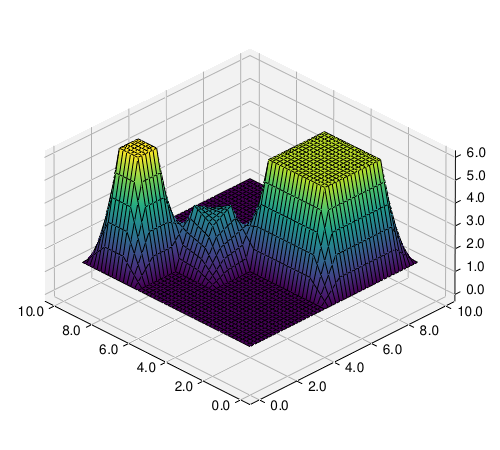
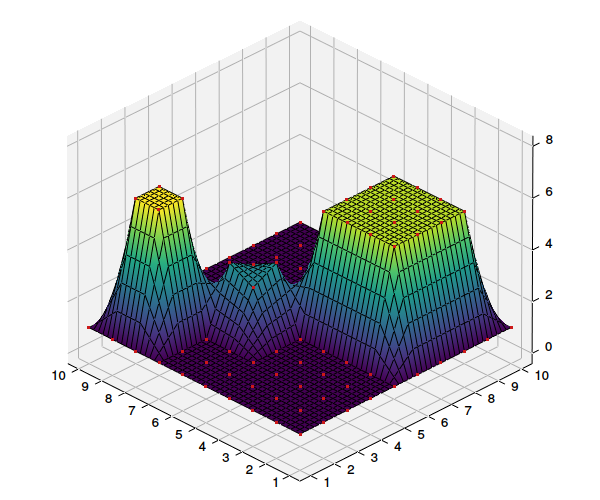
docs: Export zoomed example figures

diff --git a/cubinterpp/periodic_spline.py b/cubinterpp/periodic_spline.py
@@ -1,5 +1,6 @@
 """ Simple test for Periodic Spline Interpolation """
 
+from pathlib import Path
 import numpy as np
 import mlpyqtgraph as mpg
 import cubinterpp.cubinterpp_py as cubinterpp  # cubinterpp_py is a pybind11 module
@@ -25,7 +26,6 @@ def test_data(case='circle'):
 
 @mpg.plotter
 def main():
-
     t, x, y = test_data('arbitrary')
 
     spline_x = cubinterpp.NaturalPeriodicSpline1D(t, x)
@@ -42,7 +42,8 @@ def main():
     mpg.plot(x_interp_scipy, y_interp_scipy, style='--')
     mpg.plot(x, y, width=0, symbol='o', symbol_color='r', symbol_size=6)
     mpg.legend('cubinterpp', 'scipy', 'data points')
-    mpg.gca().grid = True
+    ax = mpg.gca()
+    ax.grid = True
 
 
 if __name__ == '__main__':

diff --git a/cubinterpp/main.py b/cubinterpp/main.py
@@ -1,5 +1,6 @@
 """ Compare Spline Interpolation types """
 
+from pathlib import Path
 import numpy as np
 from scipy.interpolate import RegularGridInterpolator
 import mlpyqtgraph as mpg
@@ -152,6 +153,9 @@ def main():
         ax.yticks = 8
         ax.zlim = [0, 8]
         mpg.points3(xp, yp, zp, color=(0.8, 0.1, 0.1, 1), size=3)
+        ax.distance = 115
+        filepath = Path(__file__).parents[1] / 'docs' / 'images' / f'{interp_type}_2D.png'
+        ax.export(str(filepath))
 
     x, y, f = get_test_data_2d(case='three_bumps')
     x_fine, y_fine = refine_grid(x, 46), refine_grid(y, 46)

diff --git a/cubinterpp/periodic_spline_2d.py b/cubinterpp/periodic_spline_2d.py
@@ -1,5 +1,6 @@
 """ Periodic spline example in 3D """
 
+from pathlib import Path
 import random
 import numpy as np
 import cubinterpp.cubinterpp_py as cubinterpp  # cubinterpp_py is a pybind11 module
@@ -60,7 +61,9 @@ def main():
     yp = y.flatten()
     zp = z.flatten()
     mpg.points3(xp, yp, zp, color=(0.8, 0.1, 0.1, 1), size=5)
-    ax.export('periodic_spline_2d.png')
+    ax.distance = 115
+    filepath = Path(__file__).parents[1] / 'docs' / 'images' / 'periodic_spline_2D.png'
+    ax.export(str(filepath))
 
 
 if __name__ == '__main__':
